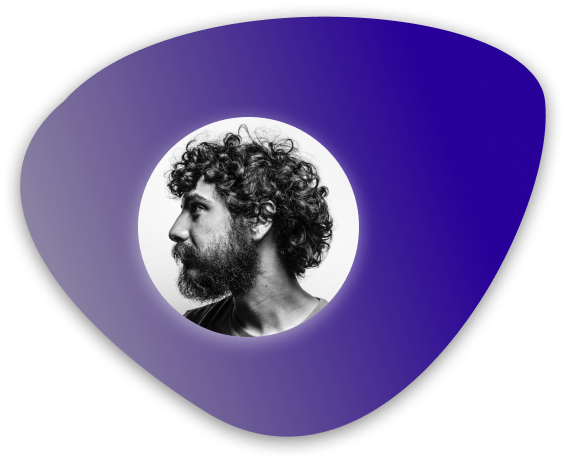
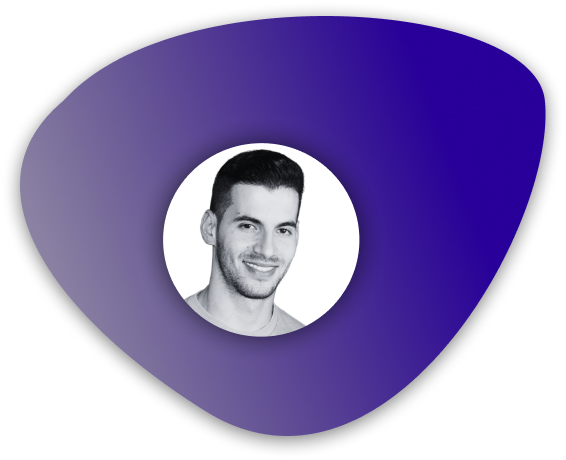
profile photo updated, and margin on coding section updated

diff --git a/index.html b/index.html
@@ -76,7 +76,7 @@
 
           <div class="col">
             <div>
-              <img src="images/Profile-Photo.png" class="img-fluid" alt="about profile photo">
+              <img src="images/profile-photo.png" class="img-fluid" alt="about profile photo">
             </div>
           </div>
 
@@ -298,7 +298,7 @@
             <div class="row row-cols-1 row-cols-sm-4 m-2 justify-content-center">
 
               <!--ZEDRED APP SECTION-->
-              <div class="col shadow-lg m-1 text-center yellow-color-bg pt-5 pb-5">
+              <div class="col shadow-lg m-2 text-center yellow-color-bg pt-5 pb-5">
                 <img src="./icons/zedred.png" alt="Zedred logo">
                 <h6><strong>Zedred App</strong></h6>
                 <!--Modal Button-->
@@ -346,7 +346,7 @@
               </div>
 
               <!--NASA APP SECTION-->
-              <div class="col shadow-lg m-1 text-center orange-color-bg pt-5 pb-5">
+              <div class="col shadow-lg m-2 text-center orange-color-bg pt-5 pb-5">
                 <img src="./icons/nasaApp.png" alt="NasaApp picture">
                 <h6><strong>Nasa App</strong></h6>
                 <!--Modal Button-->
@@ -393,7 +393,7 @@
               </div>
               
               <!--FIZZBUZZ SECTION-->
-              <div class="col shadow-lg m-1 text-center blue-color-bg pt-5 pb-5">
+              <div class="col shadow-lg m-2 text-center blue-color-bg pt-5 pb-5">
                 <img src="./icons/myFizzBuzz.png" alt="NasaApp picture">
                 <h6><strong>FizzBuzz App</strong></h6>
                 <!--Modal Button-->
@@ -440,7 +440,7 @@
               </div>
 
               <!--PALDROME SECTION-->
-              <div class="col shadow-lg m-1 text-center green-color-bg pt-5 pb-5">
+              <div class="col shadow-lg m-2 text-center green-color-bg pt-5 pb-5">
                 <img src="./icons/paldrome.png" alt="PalDrome picture">
                 <h6><strong>Paldrome App</strong></h6>
                 <!--Modal Button-->
@@ -486,7 +486,7 @@
               </div>
 
               <!--LOAN-APP SECTION-->
-              <div class="col shadow-lg m-1 text-center red-cherry-color-bg pt-5 pb-5">
+              <div class="col shadow-lg m-2 text-center red-cherry-color-bg pt-5 pb-5">
                 <img src="./icons/loan.png" alt="Loan App picture">
                 <h6><strong>Loan App</strong></h6>
                 <!--Modal Button-->
@@ -533,7 +533,7 @@
               </div>
 
               <!--LOAN-APP-MVC SECTION-->
-              <div class="col shadow-lg m-1 text-center tomato-color-bg pt-5 pb-5">
+              <div class="col shadow-lg m-2 text-center tomato-color-bg pt-5 pb-5">
                 <img src="./icons/loan.png" alt="Addres Book picture">
                 <h6><strong>Address Book MVC</strong></h6>
                 <!--Modal Button-->

diff --git a/index.js b/index.js
@@ -37,7 +37,7 @@ const showDate = () => {
 const changeNavBar = () => {
     if(window.scrollY > 150) {
         $("nav-bar").classList.add("gradient-bg");
-        $("nav-bar").style.opacity = "0.8";
+        $("nav-bar").style.opacity = "0.9";
     } else if(window.scrollY <= 0) {
         $("nav-bar").classList.remove("gradient-bg");
         $("nav-bar").style.opacity = "1";
